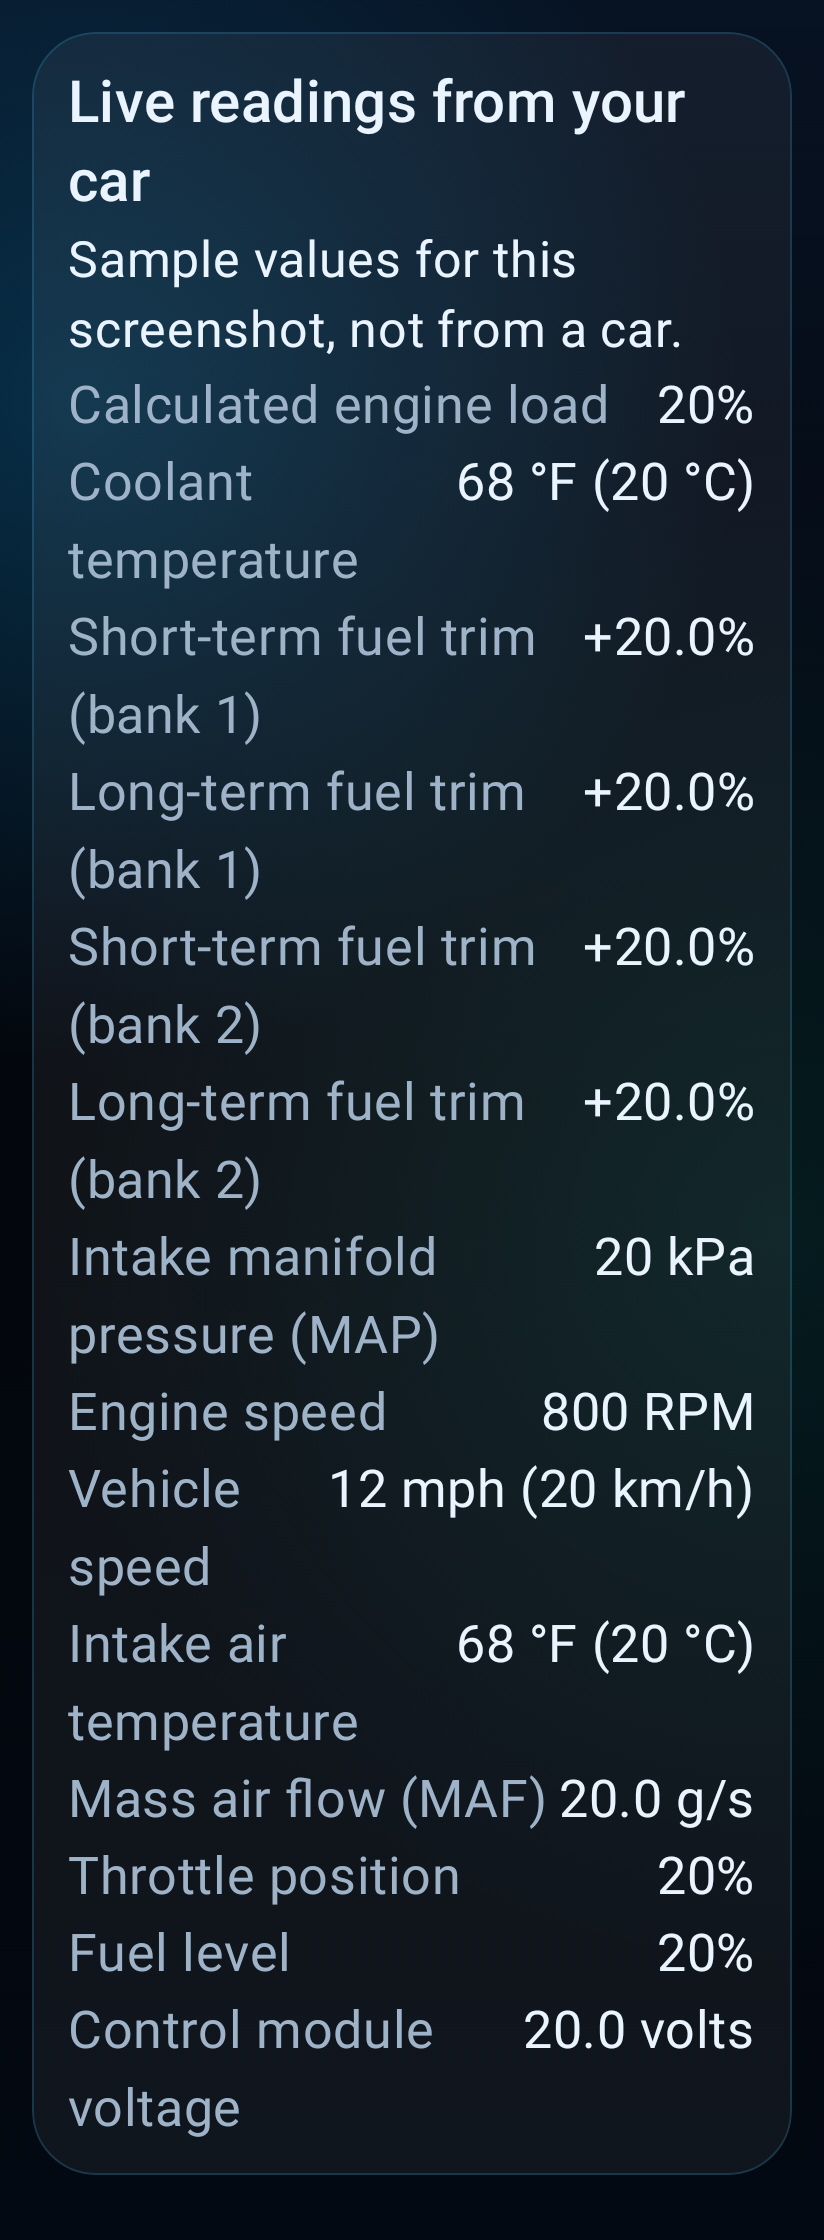
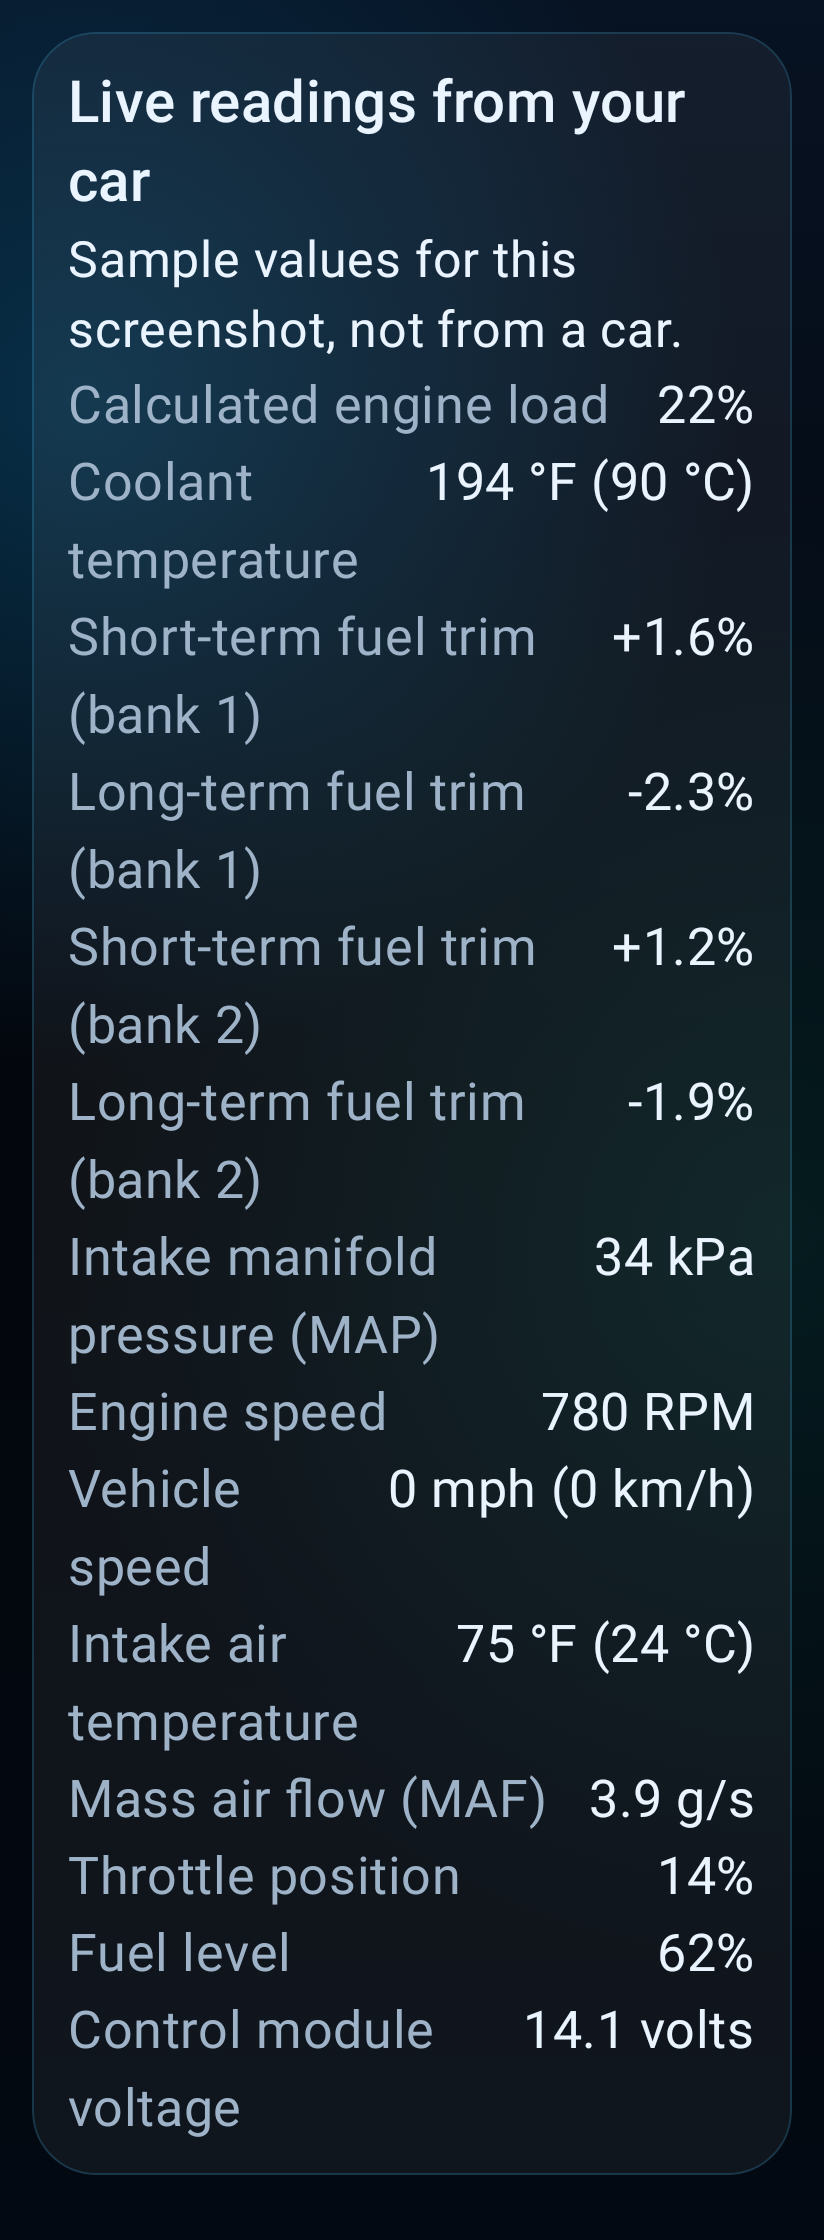
Phase 1B: review fixes (docs, realistic screenshot samples, stronger independence test)
Claude-Session: https://claude.ai/code/session_01CrrQxWvMRMsLJ48dtPymJm

diff --git a/app/src/test/java/com/aicarcompanion/app/ui/screenshots/Phase1bScreenshotTest.kt b/app/src/test/java/com/aicarcompanion/app/ui/screenshots/Phase1bScreenshotTest.kt
@@ -21,7 +21,11 @@ import com.aicarcompanion.app.data.local.ThemeMode
 import com.aicarcompanion.app.ui.design.PenelopeBackground
 import androidx.compose.material3.MaterialTheme
 import androidx.compose.material3.Text
+import com.aicarcompanion.app.diagnostics.obd.ConnectionStats
+import com.aicarcompanion.app.diagnostics.obd.ConnectionTroubleshooter
+import com.aicarcompanion.app.diagnostics.obd.ObdConnectionState
 import com.aicarcompanion.app.diagnostics.obd.ObdPid
+import com.aicarcompanion.app.diagnostics.obd.ObdTransport
 import com.aicarcompanion.app.domain.model.DataOrigin
 import com.aicarcompanion.app.domain.model.SensorReading
 import com.aicarcompanion.app.ui.adapter.ConnectionSettingsStatus
@@ -85,9 +89,9 @@ class Phase1bScreenshotTest(private val shot: Shot) {
                                         LiveReadingRows(sampleReadings(), everyday = false)
                                     }
                                     Part.TIPS -> TroubleshootingCard(
-                                        listOf(
-                                            "The adapter is fine but the car isn't answering. Turn the ignition fully on, then tap \"Check vehicle again\".",
-                                            "Custom connection settings are on. If the car doesn't answer, open Advanced connection settings and tap Restore recommended.",
+                                        ConnectionTroubleshooter.tips(
+                                            ObdConnectionState.Connected(ObdTransport.BLUETOOTH_CLASSIC, "OBDII", null),
+                                            ConnectionStats(), null, customConfig = true,
                                         ),
                                     )
                                 }
@@ -106,6 +110,12 @@ class Phase1bScreenshotTest(private val shot: Shot) {
 
 private const val ROOT = "screenshot_root_phase1b"
 
-private fun sampleReadings(): List<SensorReading> = ObdPid.entries.map {
-    SensorReading(it.label, if (it == ObdPid.ENGINE_RPM) 800.0 else 20.0, it.unit, Instant.EPOCH, DataOrigin.SAMPLE, it.command)
+private fun sampleReadings(): List<SensorReading> {
+    val values = mapOf(
+        ObdPid.ENGINE_LOAD to 22.0, ObdPid.COOLANT_TEMP to 90.0, ObdPid.SHORT_TERM_FUEL_TRIM_B1 to 1.6,
+        ObdPid.LONG_TERM_FUEL_TRIM_B1 to -2.3, ObdPid.SHORT_TERM_FUEL_TRIM_B2 to 1.2, ObdPid.LONG_TERM_FUEL_TRIM_B2 to -1.9,
+        ObdPid.INTAKE_MAP to 34.0, ObdPid.ENGINE_RPM to 780.0, ObdPid.VEHICLE_SPEED to 0.0, ObdPid.INTAKE_AIR_TEMP to 24.0,
+        ObdPid.MAF_RATE to 3.9, ObdPid.THROTTLE_POSITION to 14.0, ObdPid.FUEL_LEVEL to 62.0, ObdPid.CONTROL_MODULE_VOLTAGE to 14.1,
+    )
+    return ObdPid.entries.map { SensorReading(it.label, values.getValue(it), it.unit, Instant.EPOCH, DataOrigin.SAMPLE, it.command) }
 }

diff --git a/app/src/test/java/com/aicarcompanion/app/phase1b/KnowledgeLevelPersonalityIndependenceTest.kt b/app/src/test/java/com/aicarcompanion/app/phase1b/KnowledgeLevelPersonalityIndependenceTest.kt
@@ -30,6 +30,14 @@ class KnowledgeLevelPersonalityIndependenceTest {
             )
         }
         val expected = voiceFields(store.settings.value)
+        assertEquals("ace", expected[0])
+        assertEquals("Zoë", expected[1])
+        assertEquals(VoiceChoice.Profile("max"), expected[2])
+        assertEquals(1.2f, expected[3])
+        assertEquals(0.9f, expected[4])
+        assertEquals("com.example.tts", expected[5])
+        assertEquals(false, expected[6])
+        assertEquals(LevelLayout(HomeLayout.CUSTOMIZABLE, listOf(DashboardItem.ADAPTER, DashboardItem.HISTORY)), expected[8])
         listOf(ExplanationLevel.EVERYDAY, ExplanationLevel.DIY, ExplanationLevel.EVERYDAY, ExplanationLevel.DIY).forEach { level ->
             store.update { it.copy(explanationLevel = level) }
             assertEquals(level, store.settings.value.explanationLevel)

diff --git a/docs/ADVANCED_FEATURES_INVENTORY.md b/docs/ADVANCED_FEATURES_INVENTORY.md
@@ -1,12 +1,12 @@
-# Advanced-only features: inventory for the DIY redesign (Phase 1A, Prompt 1)
+# Advanced-only features: inventory for the DIY redesign (Phase 1A, Prompt 1; updated in Phase 1B, Prompt 2)
 
-Since v0.9.0 only Everyday Driver and DIY Enthusiast are selectable. `ExplanationLevel.ADVANCED` stays in the code as an internal-only value (a stored Advanced level is migrated to DIY on startup). Nothing below was deleted. "Access after 1A" says how a DIY user reaches it now. Prompt 2 decides what moves into the DIY design.
+Since v0.9.0 only Everyday Driver and DIY Enthusiast are selectable. `ExplanationLevel.ADVANCED` stays in the code as an internal-only value (a stored Advanced level is migrated to DIY on startup). Nothing below was deleted. "Access after 1A" says how a DIY user reaches it now. Phase 1B (Prompt 2, v0.10.0) moved the behaviour noted in the last column into DIY; visual and tab-set changes are deferred to Prompt 3.
 
 | Feature | Where | Access before | Access after 1A | Prompt 2 notes | After Prompt 2 (Phase 1B, v0.10.0) |
-|---|---|---|---|---|
+|---|---|---|---|---|---|
 | Telemetry home (AdvancedDashboard) | `ui/home/AdvancedDashboard.kt`, `dashboard/Dashboard.kt` | Advanced home | Not shown (DIY keeps the DIY home). Code kept and tested | Candidate DIY home content | Deferred to Prompt 3 (visual redesign); not shown |
 | Advanced design tokens, plain nav bar, LiveColors | `AdvancedTokens`, `FloatingNavBar(plain)`, `ui/livedata/LiveColors.kt` | Advanced | Unused unless level is the internal Advanced | Decide whether DIY adopts them | Deferred to Prompt 3; not shown |
-| Advanced tab set (Overview, Live Data, Diagnostics, Drive, More) | `ui/navigation/LevelNavigation.kt` | Advanced | DIY keeps its own tabs; Live Data via home shortcut and `liveDataAvailable` | Decide DIY tab set | Deferred to Prompt 3; DIY keeps its tabs; Diagnostics tab opens from home Results |
+| Advanced tab set (Overview, Live Data, Diagnostics, Drive, More) | `ui/navigation/LevelNavigation.kt` | Advanced | DIY keeps its own tabs; Live Data via home shortcut and `liveDataAvailable` | Decide DIY tab set | Tab set deferred to Prompt 3. Diagnostics is already a DIY tab and home Results now opens it |
 | Advanced Drive style | `ui/drive/DriveSections.kt` | Advanced | Not shown | Optional | Deferred to Prompt 3; not shown |
 | Advanced Connection screen (type, protocol, timing, poll, reconnection, adapter ID, adapter test, communication log, expert ELM options, read-only console) | `ui/adapter/AdvancedConnectionScreen.kt` | Advanced (Adapter button, More row, home shortcut) | DIY: Adapter button, More "Connection" row, optional home shortcut | Fully reachable; consider placing in DIY dashboard | Unchanged and reachable; settings now apply at DIY |
 | Custom connection config applying | `ObdConnectionConfig.effectiveFor`, `AdvancedConnectionViewModel.appliesNow` | Advanced only | Still Advanced only (owner decision 2026-11-25). Selectable levels always use the recommended config; the Connection screen (test, log, read-only console) stays reachable from DIY and says custom settings are switched off for now | Prompt 2: decide whether the folded-in DIY tools may apply a custom config | Applied at DIY (clamped); Everyday never. Supersedes the Phase 1A interim rule; pending owner confirmation in the PR |
@@ -21,4 +21,6 @@ Since v0.9.0 only Everyday Driver and DIY Enthusiast are selectable. `Explanatio
 | DIY sensor-list hint | `RuleBasedReasoningProvider.kt` :373 | Said "switch to a higher detail level" | "Ask me for a specific reading, or open Live Data to see more." | Review wording | Unchanged |
 | Advanced-only polling of trims, MAF, MAP | `ObdManager.kt` :672 | Advanced | Not polled for home/adapter card at DIY; Live Data workspace still offers them | Decide | Now DIY (up to 14 PIDs, supported ones only) |
 | Plain navigation bar | `CarCompanionApp.kt` :270 | Advanced | Not shown | Optional | Deferred to Prompt 3 |
-| Custom connection settings | `ObdConnectionConfig.effectiveFor` | Advanced only | Off for now (everyone uses recommended settings) | Owner decision pending | Applied at DIY (see above); readiness monitors remain a Planned placeholder |
+| Custom connection settings | `ObdConnectionConfig.effectiveFor` | Advanced only | Off for now (everyone uses recommended settings) | Owner decision pending | Applied at DIY (see above) |
+| Freeze frame as a feature (only available through the console today) | Connection screen console (Mode 02) | Advanced | DIY via the console only | Possibly a DIY tool | **Planned**, not built |
+| Readiness monitors | Placeholder only | None | None | Possibly a DIY tool | **Planned**, not built |

diff --git a/docs/project-memory/DECISIONS.md b/docs/project-memory/DECISIONS.md
@@ -31,8 +31,9 @@ Approved product and technical decisions. Dates are when the change merged into 
 | 2026-11-15 | OBD-II settings by skill level: Everyday automatic, DIY manual, Advanced full control, all read-only | PR #6 |
 | 2026-11-25 | Two knowledge levels only: Everyday Driver and DIY Enthusiast. Advanced is no longer selectable; stored Advanced migrates to DIY. Supersedes the earlier three-level decision. The DIY redesign follows in Prompt 2 | Owner prompt, Phase 1A |
 | 2026-11-25 | **Custom connection settings stay Advanced-only.** With Advanced no longer selectable, Everyday and DIY always use the recommended connection settings; saved custom settings are kept but not applied. The Connection screen (test, log, read-only console) stays reachable from DIY | Owner, 2026-11-25 (Phase 1A PR) |
-| 2026-11-25 P2 | **DIY applies custom connection settings** (clamped); Everyday never does. Supersedes the Phase 1A interim row above. Also fixes the communication log never recording at DIY. Pending owner confirmation in the Phase 1B PR | Architect plan; owner to confirm (Phase 1B PR) |
 | Owner rules | Never merge without the owner's approval; one PR per stage from the latest `main` | `CLAUDE.md` |
 
 ## ❓ Waiting for the owner
-None right now. (The Gemini personal-details question was decided on 2026-11-21: automatic scrubbing.)
+1. **DIY applies custom connection settings** (clamped; Everyday never). Built in Phase 1B (v0.10.0) on the architect plan and supersedes the Phase 1A interim row above; it also fixes the communication log never recording at DIY. Not an approved decision until the owner confirms it in the Phase 1B PR.
+
+(Resolved earlier: the Gemini personal-details question was decided on 2026-11-21: automatic scrubbing.)

diff --git a/docs/QUALITY_SUMMARY.md b/docs/QUALITY_SUMMARY.md
@@ -48,5 +48,5 @@ One line per stage, newest first. Full reports are attached to each CI run as th
 ## Known warnings
 - `OldTargetApi`: `targetSdk` is still 35 while compileSdk is 37. Kept on purpose: raising the target changes runtime behavior on the phone and needs its own stage with device testing.
 | 2026-11-24 | Assistant personalization and voice overhaul (v0.8.0, build 9) | PASS (local, --release) | 1072 run, 0 failed (incl. owner-decision follow-up) | 0 / 2 | 0 | NOT RUN on device (voice gender, engines, network voices, TalkBack) | NEEDS MANUAL VERIFICATION |
-| 2026-11-25 | Phase 1B Prompt 2: Advanced features into DIY (v0.10.0, build 11) | PASS (local: compile, Detekt, Lint, tests; full quality-gate.sh not run) | 1148 run, 0 failed, 0 skipped | Detekt 0, Lint 0 errors | Device checks NOT RUN (0f) |
+| 2026-11-25 | Phase 1B Prompt 2: Advanced features into DIY (v0.10.0, build 11) | PASS (local, --release) | 1148 run, 0 failed | Detekt 0 / Lint 0 errors, 2 warnings | secret scan clean | NOT RUN on device (see `docs/DEVICE_TESTING.md` 0f) | NEEDS MANUAL VERIFICATION |
 | 2026-11-25 | Phase 1A Prompt 1: two knowledge levels (v0.9.0, build 10) | PASS (local, --release) | 1114 run, 0 failed | 0 / 0 errors, 2 warnings (Detekt 0, Lint 0 errors / 2 warnings), secret scan clean | 0 | NOT RUN on device (Advanced to DIY migration on an upgraded install, TalkBack, Settings) | NEEDS MANUAL VERIFICATION |

diff --git a/docs/DEVICE_TESTING.md b/docs/DEVICE_TESTING.md
@@ -199,7 +199,7 @@ Change the level under **Settings → Detail level**.
 
 
 ## 0f. Phase 1B: Advanced features in DIY (v0.10.0, build 11) (NOT RUN in automated tests)
-1. Upgrade in place from v0.9.0: vehicles, history, personality, voice and layouts intact.
+1. Upgrade in place from v0.9.0: vehicles, history, personality, voice and layouts intact. Before upgrading, on v0.9.0 DIY save a manual protocol (e.g. CAN 29-bit 250k with fallback off). After upgrading to 0.10.0 the Connection screen says the settings are active; if the car is silent the Troubleshooting tip appears, and Restore recommended recovers the connection.
 2. DIY, Advanced connection settings: the screen says the settings are active. Change the poll interval or turn on the communication log, reconnect: the log records redacted traffic.
 3. DIY, connected to the car: the adapter card lists the supported readings (fuel trims, MAP, MAF) and omits any the car doesn't report.
 4. DIY: "are you connected?" mentions the protocol; "tell me about my engine" mentions the drivetrain. Everyday: neither.
